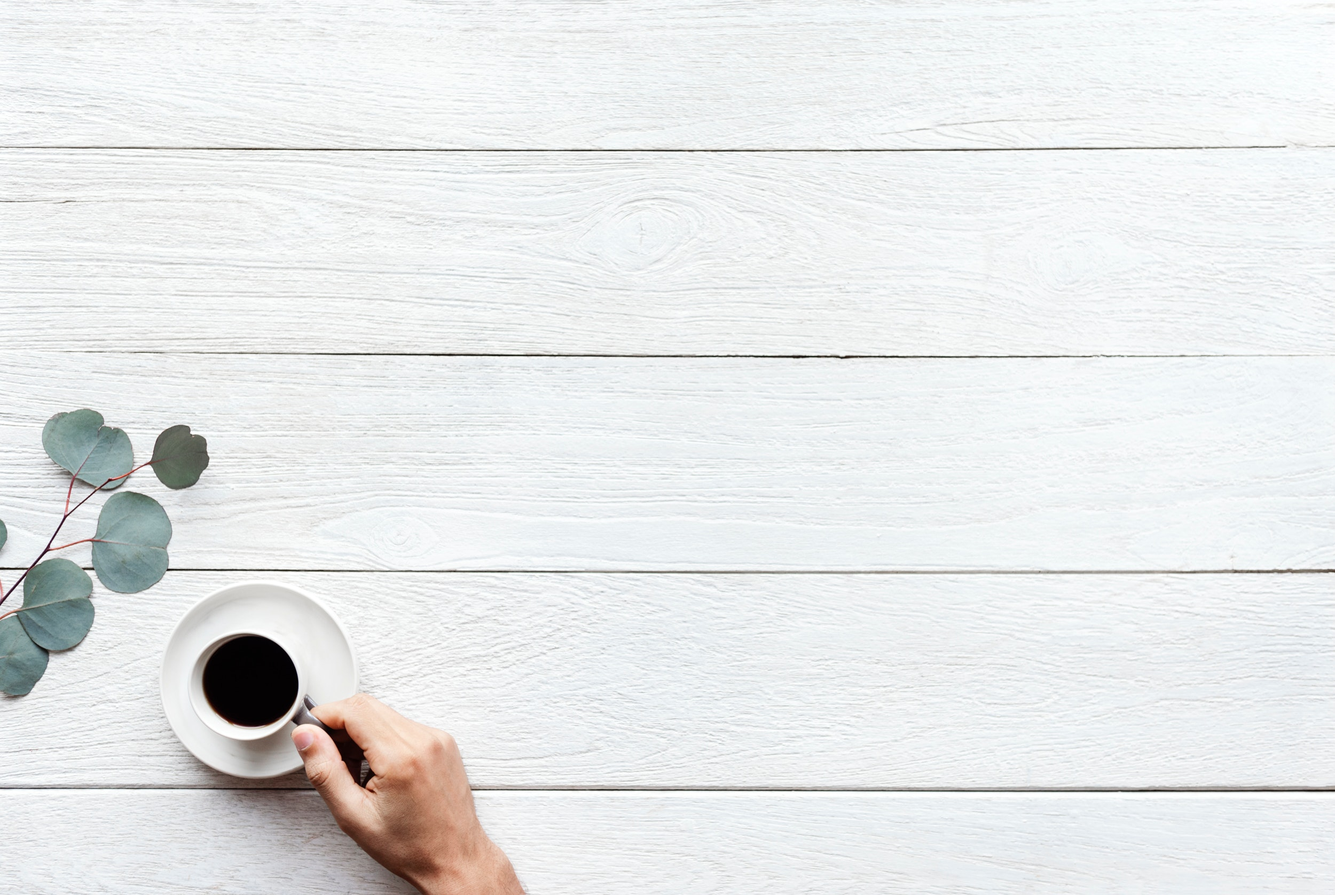
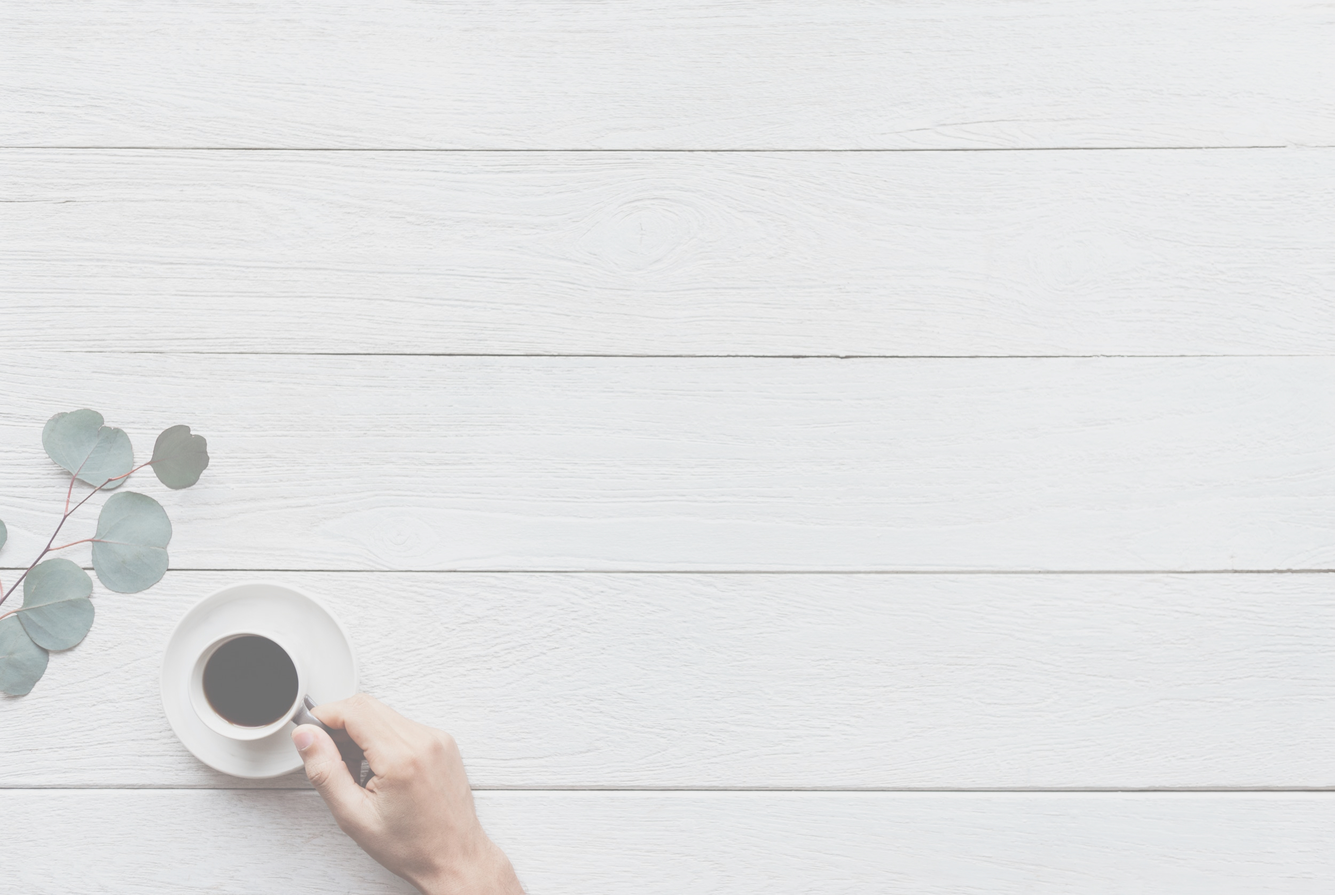
hello world

diff --git a/about.html b/about.html
@@ -77,19 +77,21 @@
     </section>
 
     <section>
-      <img src="img/timothy-li.jpeg" alt="Timothy Li" />
-      <h2>
-        Timothy Lee
-        <a target="_blank" href="https://www.linkedin.com/in/timothy-li-052774107/">
-          <img class="linkedInLogo" src="img/linkedin.jpeg" alt="Timothy Li - LinkedIn" />
-        </a>
-      </h2>
-      <p>Formerly a salesman working for the insurance industry, I was encouraged to learn programming by my brother-in-law.
-        At first I found coding to be scary and a bit daunting, then I realized that coding can be quiet enjoyable. Convinced
-        by my brother-in-law's work life balance and his fulfillment from his career, I made the leap of faith and quit my
-        career. I eventually developed a passion for coding and find messing around with different logic strings to be amusing.
-        My goal is to continue to grow my passion for coding and eventually develop my own application so I can showcase
-        my creativity.</p>
+      <a target="_blank" href="https://www.linkedin.com/in/ljjolley/">
+        <img src="img/timothy-li.jpeg" alt="Timothy Li" />
+        <h2>
+          Timothy Lee
+          <a target="_blank" href="https://www.linkedin.com/in/timothy-li-052774107/">
+            <img class="linkedInLogo" src="img/linkedin.jpeg" alt="Timothy Li - LinkedIn" />
+          </a>
+        </h2>
+        <p>Formerly a salesman working for the insurance industry, I was encouraged to learn programming by my brother-in-law.
+          At first I found coding to be scary and a bit daunting, then I realized that coding can be quiet enjoyable. Convinced
+          by my brother-in-law's work life balance and his fulfillment from his career, I made the leap of faith and quit
+          my career. I eventually developed a passion for coding and find messing around with different logic strings to
+          be amusing. My goal is to continue to grow my passion for coding and eventually develop my own application so I
+          can showcase my creativity.</p>
+      </a>
     </section>
 
   </main>

diff --git a/css/main.css b/css/main.css
@@ -1,6 +1,5 @@
 body {
   font-family: Arial, Helvetica, sans-serif;
-  background-color: #ccc;
   background-image: url(../img/background.jpg);
   background-size: cover;
 }
